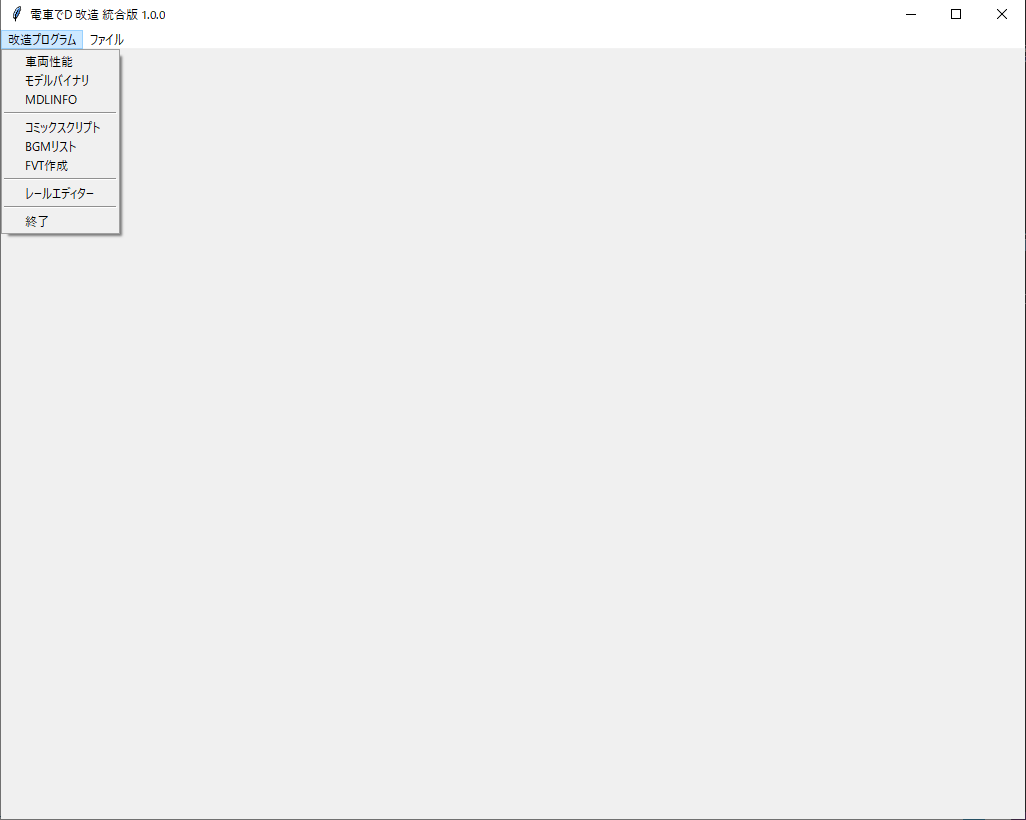
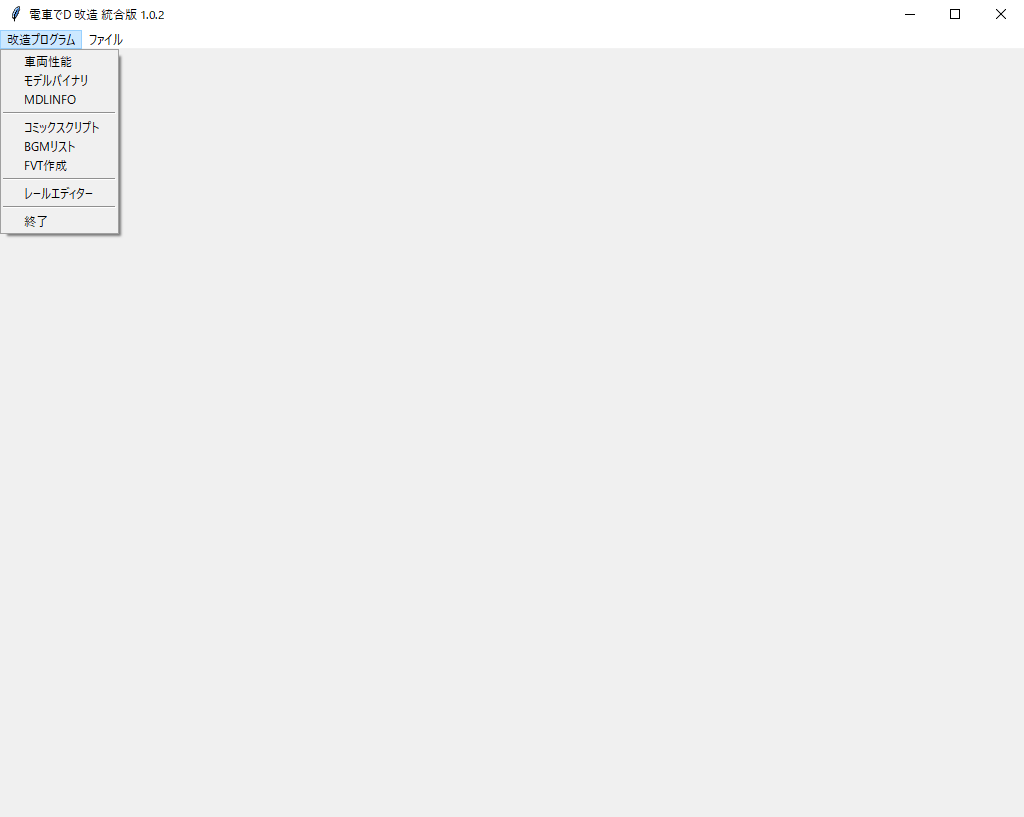
smfリスト色分け

Changed region(s): [[0.0, 0.0, 0.1562, 0.306], [0.9688, 0.0, 1.0, 0.0306]]

diff --git a/program/railEditor/importPy/tab3/smfListWidget.py b/program/railEditor/importPy/tab3/smfListWidget.py
@@ -62,10 +62,14 @@ class SmfListWidget:
         if self.decryptFile.game in ["LS", "BS"]:
             btnList.append(self.listModifyBtn)
 
+        useModelListObj = self.getUseModelList()
+
         self.treeFrame = ttk.Frame(self.swfListLf)
         self.treeFrame.pack(anchor=tkinter.NW, fill=tkinter.X)
 
         self.treeviewFrame = ScrollbarTreeview(self.treeFrame, rowNum, self.v_select, btnList)
+        style = ttk.Style()
+        style.map('Treeview', foreground=self.fixed_map(style, 'foreground'), background=self.fixed_map(style, 'background'))
 
         if self.decryptFile.game in ["CS", "RS"]:
             col_tuple = ("番号", "smf名", "e1", "e2", "長さ", "e3", "e4", "架線柱No", "架線No")
@@ -97,9 +101,18 @@ class SmfListWidget:
             index = 0
             for smfInfo in self.smfList:
                 data = (index,)
+                tags = "used"
+                if smfInfo[0] not in useModelListObj["rail"] and smfInfo[0] not in useModelListObj["amb"]:
+                    tags = "notUse"
+                elif smfInfo[0] in useModelListObj["rail"] and smfInfo[0] in useModelListObj["amb"]:
+                    tags = "allUse"
+                elif smfInfo[0] in useModelListObj["rail"]:
+                    tags = "rail"
+                else:
+                    tags = "amb"
                 data += (smfInfo[0], smfInfo[1], smfInfo[2], smfInfo[3], smfInfo[4], smfInfo[5])
                 data += (smfInfo[6], smfInfo[7])
-                self.treeviewFrame.tree.insert(parent='', index='end', iid=index, values=data)
+                self.treeviewFrame.tree.insert(parent='', index='end', iid=index, values=data, tags=tags)
                 index += 1
         elif self.decryptFile.game == "BS":
             col_tuple = ("番号", "smf名", "長さ", "e1", "e2", "リスト数")
@@ -125,8 +138,17 @@ class SmfListWidget:
             index = 0
             for smfInfo in self.smfList:
                 data = (index,)
+                tags = "used"
+                if smfInfo[0] not in useModelListObj["rail"] and smfInfo[0] not in useModelListObj["amb"]:
+                    tags = "notUse"
+                elif smfInfo[0] in useModelListObj["rail"] and smfInfo[0] in useModelListObj["amb"]:
+                    tags = "allUse"
+                elif smfInfo[0] in useModelListObj["rail"]:
+                    tags = "rail"
+                else:
+                    tags = "amb"
                 data += (smfInfo[0], smfInfo[1], smfInfo[2], smfInfo[3], len(smfInfo[4]))
-                self.treeviewFrame.tree.insert(parent='', index='end', iid=index, values=data)
+                self.treeviewFrame.tree.insert(parent='', index='end', iid=index, values=data, tags=tags)
                 index += 1
         else:
             col_tuple = ("番号", "smf名", "長さ", "e1", "リスト数")
@@ -150,12 +172,26 @@ class SmfListWidget:
             index = 0
             for smfInfo in self.smfList:
                 data = (index,)
+                tags = "used"
+                if smfInfo[0] not in useModelListObj["rail"] and smfInfo[0] not in useModelListObj["amb"]:
+                    tags = "notUse"
+                elif smfInfo[0] in useModelListObj["rail"] and smfInfo[0] in useModelListObj["amb"]:
+                    tags = "allUse"
+                elif smfInfo[0] in useModelListObj["rail"]:
+                    tags = "rail"
+                else:
+                    tags = "amb"
+
                 if len(smfInfo[3]) == 0:
                     data += (smfInfo[0], smfInfo[1], smfInfo[2], -1)
                 else:
                     data += (smfInfo[0], smfInfo[1], smfInfo[2], len(smfInfo[3]))
-                self.treeviewFrame.tree.insert(parent='', index='end', iid=index, values=data)
+                self.treeviewFrame.tree.insert(parent='', index='end', iid=index, values=data, tags=tags)
                 index += 1
+
+        self.treeviewFrame.tree.tag_configure("notUse", background='#CCCCCC')
+        self.treeviewFrame.tree.tag_configure("rail", background='#FFC8C8')
+        self.treeviewFrame.tree.tag_configure("amb", background='#C8FFFF')
 
         if selectId is not None:
             if selectId >= len(self.smfList):
@@ -165,6 +201,123 @@ class SmfListWidget:
             else:
                 self.treeviewFrame.tree.see(selectId - 3)
             self.treeviewFrame.tree.selection_set(selectId)
+
+    def fixed_map(self, style, option):
+        return [elm for elm in style.map('Treeview', query_opt=option) if elm[:2] != ('!disabled', '!selected')]
+
+    def getUseModelList(self):
+        mdlInfoObj = {}
+        railMdlSet = set()
+        ambMdlSet = set()
+
+        mdlNo = None
+        kasenchuNo = None
+        kasenNo = None
+        for rail in self.decryptFile.railList:
+            if len(rail) < 15:
+                continue
+
+            if self.decryptFile.game == "LS":
+                offset = 0
+                if self.decryptFile.ver == "DEND_MAP_VER0101":
+                    offset = 2
+                mdlNo = rail[7 + offset]
+            else:
+                mdlNo = rail[6]
+
+            if len(self.decryptFile.smfList) > mdlNo:
+                mdlName = self.decryptFile.smfList[mdlNo][0]
+                railMdlSet.add(mdlName)
+
+            if self.decryptFile.game == "LS":
+                offset = 0
+                if self.decryptFile.ver == "DEND_MAP_VER0101":
+                    offset = 2
+                if rail[8 + offset] == -1:
+                    kasenchuNo = rail[12 + offset]
+                    kasenNo = rail[13 + offset]
+                    fixAmbNo = rail[14 + offset]
+                else:
+                    kasenchuNo = rail[9 + offset]
+                    kasenNo = rail[10 + offset]
+                    fixAmbNo = rail[11 + offset]
+
+                if kasenchuNo != -1:
+                    if len(self.decryptFile.smfList) > kasenchuNo:
+                        kasenchuName = self.decryptFile.smfList[kasenchuNo][0]
+                        railMdlSet.add(kasenchuName)
+                if kasenNo != -1:
+                    if len(self.decryptFile.smfList) > kasenNo:
+                        kasenName = self.decryptFile.smfList[kasenNo][0]
+                        railMdlSet.add(kasenName)
+                if fixAmbNo != -1:
+                    if len(self.decryptFile.smfList) > fixAmbNo:
+                        fixAmbName = self.decryptFile.smfList[fixAmbNo][0]
+                        ambMdlSet.add(fixAmbName)
+            elif self.decryptFile.game == "BS":
+                kasenNo = rail[7]
+                kasenchuNo = rail[8]
+                if kasenchuNo != -1:
+                    if len(self.decryptFile.smfList) > kasenchuNo:
+                        kasenchuName = self.decryptFile.smfList[kasenchuNo][0]
+                        railMdlSet.add(kasenchuName)
+                if kasenNo != -1:
+                    if len(self.decryptFile.smfList) > kasenNo:
+                        kasenName = self.decryptFile.smfList[kasenNo][0]
+                        railMdlSet.add(kasenName)
+            else:
+                kasenchuNo = rail[7]
+                if kasenchuNo == -2:
+                    pass
+                elif kasenchuNo == -1:
+                    if len(self.decryptFile.smfList) > mdlNo:
+                        kasenchuNo = self.decryptFile.smfList[mdlNo][-2]
+                        if kasenchuNo != 255:
+                            if len(self.decryptFile.smfList) > kasenchuNo:
+                                kasenchuName = self.decryptFile.smfList[kasenchuNo][0]
+                                railMdlSet.add(kasenchuName)
+
+                        kasenNo = self.decryptFile.smfList[mdlNo][-1]
+                        if kasenNo != 255:
+                            if len(self.decryptFile.smfList) > kasenNo:
+                                kasenName = self.decryptFile.smfList[kasenNo][0]
+                                railMdlSet.add(kasenName)
+                else:
+                    if len(self.decryptFile.smfList) > kasenchuNo:
+                        kasenchuName = self.decryptFile.smfList[kasenchuNo][0]
+                        railMdlSet.add(kasenchuName)
+        mdlInfoObj["rail"] = railMdlSet
+
+        for amb in self.decryptFile.ambList:
+            if self.decryptFile.game == "LS":
+                if len(amb) > 3:
+                    ambMdlNo = amb[3]
+                    if ambMdlNo != 0:
+                        if len(self.decryptFile.smfList) > ambMdlNo:
+                            ambMdlName = self.decryptFile.smfList[ambMdlNo][0]
+                            ambMdlSet.add(ambMdlName)
+            elif self.decryptFile.game == "BS":
+                if len(amb) > 3:
+                    ambMdlNo = amb[3]
+                    if ambMdlNo >= 0 and len(self.decryptFile.smfList) > ambMdlNo:
+                        ambMdlName = self.decryptFile.smfList[ambMdlNo][0]
+                        ambMdlSet.add(ambMdlName)
+            else:
+                if len(amb) > 23:
+                    ambMdlNo = amb[12]
+                    if len(self.decryptFile.smfList) > ambMdlNo:
+                        ambMdlName = self.decryptFile.smfList[ambMdlNo][0]
+                        ambMdlSet.add(ambMdlName)
+
+                    childcnt = amb[12 + 11]
+                    for i in range(childcnt):
+                        ambMdlNo = amb[24 + i*11]
+                        if len(self.decryptFile.smfList) > ambMdlNo:
+                            ambMdlName = self.decryptFile.smfList[ambMdlNo][0]
+                            ambMdlSet.add(ambMdlName)
+        mdlInfoObj["amb"] = ambMdlSet
+
+        return mdlInfoObj
 
     def editLine(self):
         selectId = self.treeviewFrame.tree.selection()[0]

diff --git a/main.py b/main.py
@@ -145,7 +145,7 @@ v_ambCsvRadio = None
 selectedProgram = None
 
 root = tkinter.Tk()
-root.title("電車でD 改造 統合版 1.0.1")
+root.title("電車でD 改造 統合版 1.0.2")
 root.geometry("1024x768")
 
 menubar = tkinter.Menu(root)
